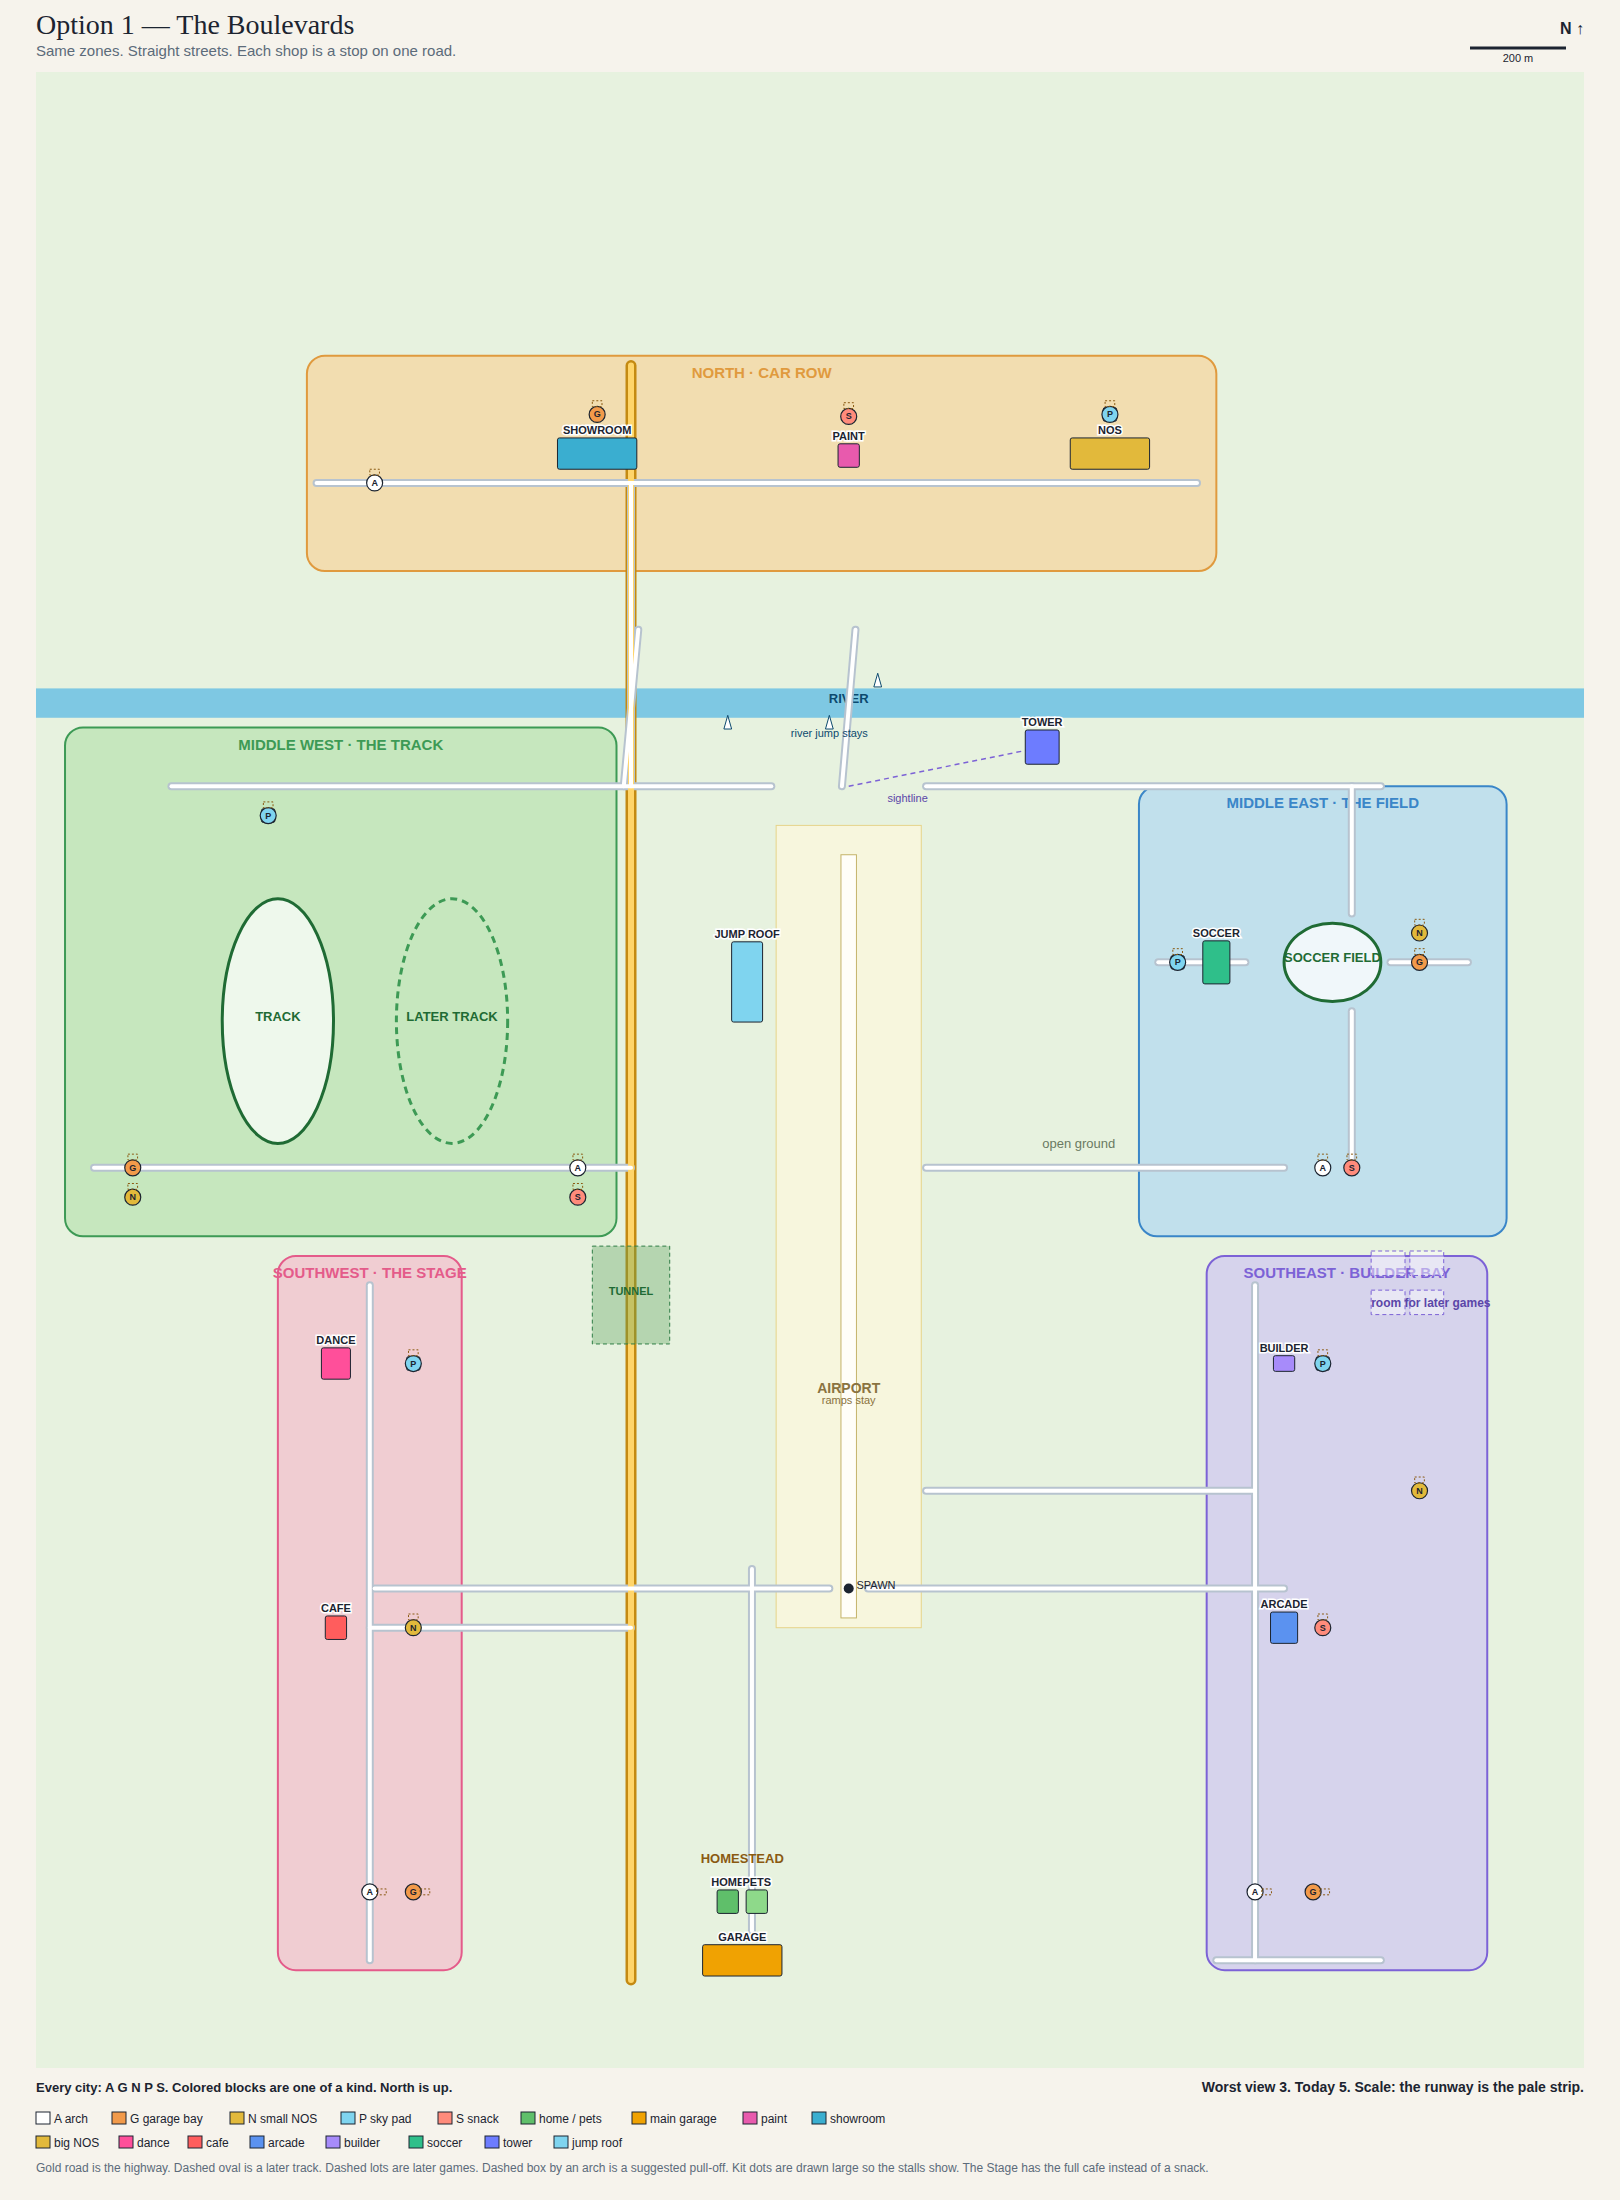
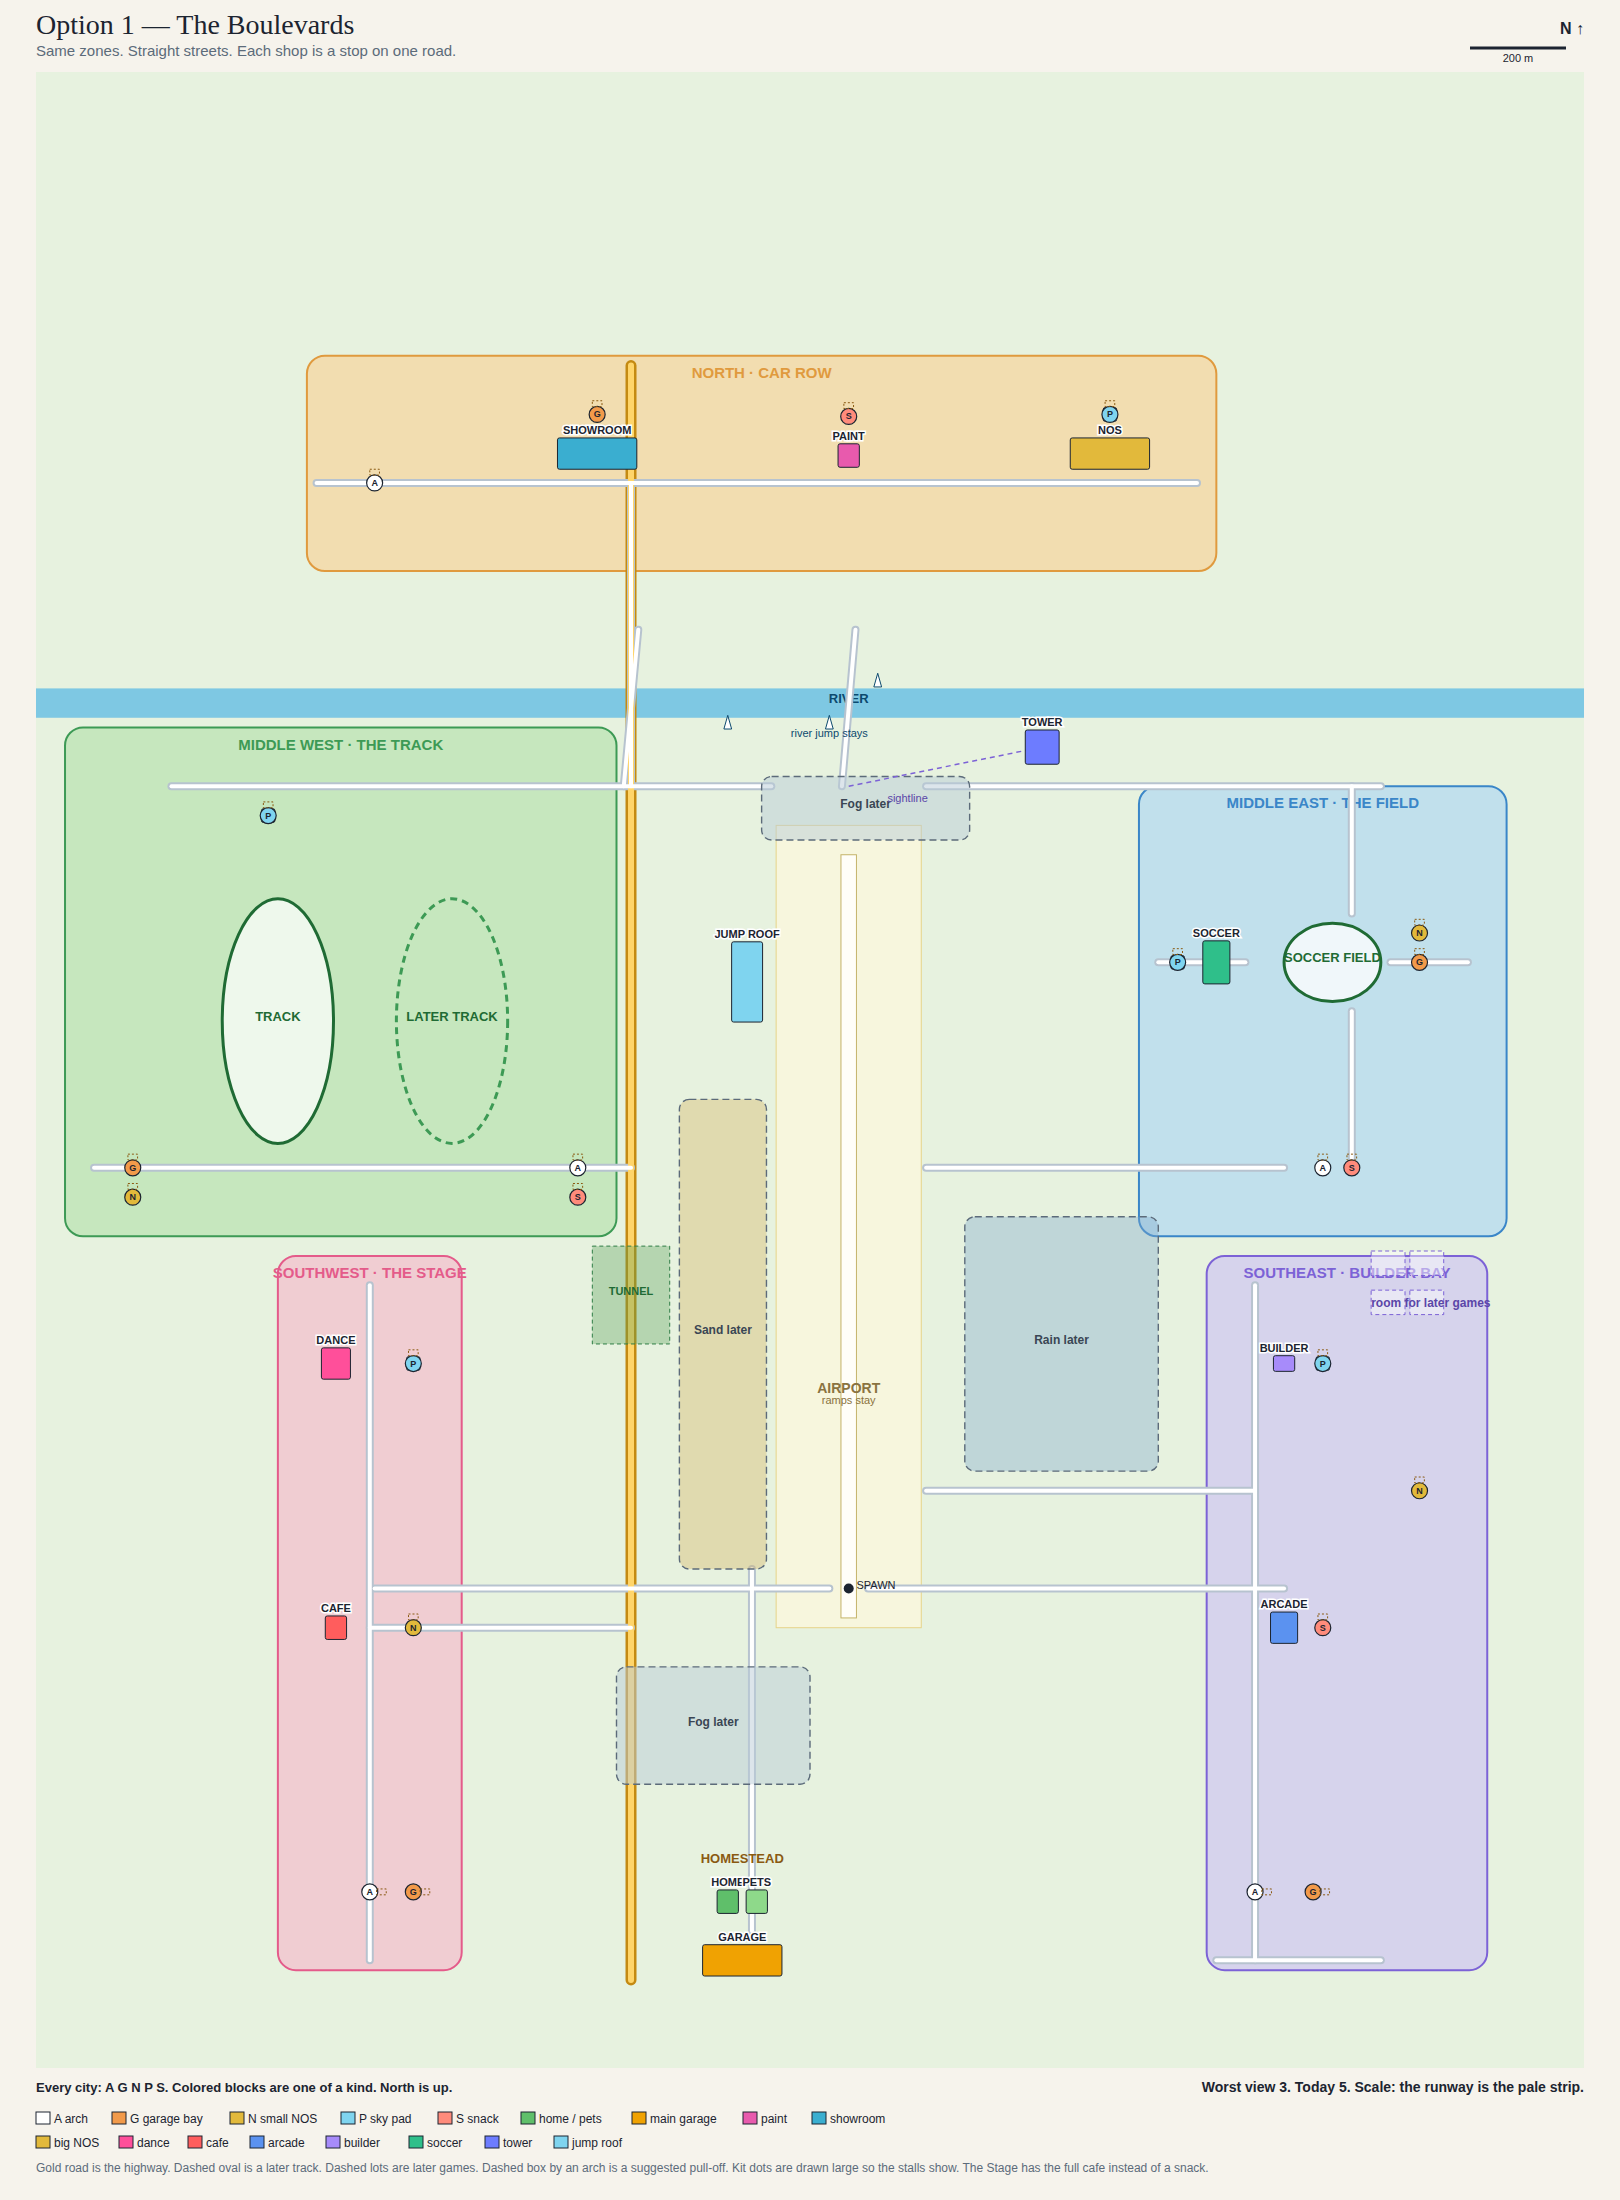
Plan later weather on the open ground between cities.
Sand, fog, and rain sit on the empty stretches, thicken when the frame is low, and shorten the far draw. The car keeps its speed. Both maps mark the bands.

diff --git a/docs/CITY-LAYOUT-PLAN.md b/docs/CITY-LAYOUT-PLAN.md
@@ -59,7 +59,7 @@ Empty grass does not add shops to that count. A bigger map is cheap as long as t
 
 ![Option 1, The Boulevards](city-layout/option-boulevards.png)
 
-Each city is one straight street. The shops are stops along it, far enough apart that the next stop is out of the detail view. You can see the gate at the end of the street. Car Row faces the river. The dance mural faces east onto its street. The two ovals sit side by side, with a pit road along the south. The soccer approach comes up from the south. The jump roof stays on the west side of the runway. The tower sits on the riverbank, just east of the center bridge, and the short dashed line is a view, not a road.
+Each city is one straight street. The shops are stops along it, far enough apart that the next stop is out of the detail view. You can see the gate at the end of the street. Car Row faces the river. The dance mural faces east onto its street. The two ovals sit side by side, with a pit road along the south. The soccer approach comes up from the south. The jump roof stays on the west side of the runway. The tower sits on the riverbank, just east of the center bridge, and the short dashed line is a view, not a road. The hatched bands are weather for later: sand on the west shoulder, fog by the river and on the south lane, rain in the east gap.
 
 Worst view: 3 buildings, the homestead yard. Inside a city the worst is 2.
 
@@ -67,7 +67,7 @@ Worst view: 3 buildings, the homestead yard. Inside a city the worst is 2.
 
 ![Option 2, The Town Squares](city-layout/option-squares.png)
 
-Same zones, same places. Each city is a square. The arch is the middle (Car Row's arch is the south gate, because that gate faces the river). The next shop is around the corner and out of view. The dance building is the west side of its square so the mural still faces east. The two ovals are stacked north–south, which is why this side of the map is tall. The soccer approach comes in from the west, off the airport. The jump roof is on the east shoulder of the runway, just north of where a Sky Drop already starts. The tower is the same riverbank landmark, and the long dashed line is the view from the southwest across the open middle.
+Same zones, same places. Each city is a square. The arch is the middle (Car Row's arch is the south gate, because that gate faces the river). The next shop is around the corner and out of view. The dance building is the west side of its square so the mural still faces east. The two ovals are stacked north–south, which is why this side of the map is tall. The soccer approach comes in from the west, off the airport. The jump roof is on the east shoulder of the runway, just north of where a Sky Drop already starts. The tower is the same riverbank landmark, and the long dashed line is the view from the southwest across the open middle. The hatched bands are the same later weather, with the rain sitting higher so it stays clear of the east jump roof.
 
 Worst view: 3 buildings, the homestead yard. Inside a city the worst is 2.
 
@@ -170,6 +170,38 @@ Boxes are x0..x1 and z0..z1. The full list is also in `docs/city-layout/coords.j
 | Field arch, and its snack | 356..364, 1227..1253 and 414..426, 1175..1185 |
 | Field bay, and its NOS | 1310..1330, 1313..1327 and 1312..1328, 1374..1386 |
 
+## Weather (later)
+
+Not in the first build. No code in this plan. When it is built, weather sits on the open ground between cities. Sand, fog, and rain. The hatched bands on both maps are those stretches. A city, the homestead yard, the runway, the tunnel, and the river jumps stay clear so she can see the shops, the bore, and the jump.
+
+The look and the frame are tied together. In a weather stretch the world can show a light haze any time: a tint and a few streaks, not a cloud of sprites. The thick version turns on when the frame is low. Use a short average, so one bad frame does not throw a storm, and ease it out slowly so it does not flicker. On a Galaxy that is missing 110 fps, the thick weather shortens the far draw. Above that, the draw distances stay as they are and the weather stays light.
+
+What it shortens: building silhouettes and the ground fill, which today reach 950 m, come in to 320 m. The road draw stays at 360 m, so the lane in front of the car is still there. Building detail stays at 170 m. There is nothing to detail in these stretches anyway. The long highway dash marks, which today draw whenever she is within 700 m of the highway, should stop for the part she can no longer see. The weather itself has to stay cheaper than the silhouettes it removes.
+
+The car keeps its speed. Slowing down does not remove anything from the frame. The draw list depends on where she is, not how fast she is moving. If the frame is still short after the distance is already cut, a later pass may trim a few percent, and only while the thick weather is on. Not a crawl. Not in a city, the tunnel, or a jump.
+
+From the middle of each stretch, these are the building silhouettes the game would draw today (inside 950 m, skipping stalls shorter than 12 m once they are past 595 m) and how many are left if that stretch is thick. Every one of these middles drops to zero. The ground disc shrinks from a 950 m radius to 320 m, which is about one ninth of that area.
+
+### Option 1
+
+| Stretch | Where | Silhouettes now | Left when thick |
+|---|---|---|---|
+| Sand | West shoulder, between the highway and the runway, z 40 to 1000 | 4 | 0 |
+| Fog | North of the runway, south of the river jumps, x −180 to 250 | 7 | 0 |
+| Rain | East gap, between Builder Bay and The Field, z 240 to 760 | 6 | 0 |
+| Fog | South lane, between spawn and the homestead, stopping before the yard | 5 | 0 |
+
+### Option 2
+
+| Stretch | Where | Silhouettes now | Left when thick |
+|---|---|---|---|
+| Sand | West shoulder, z 160 to 900 | 5 | 0 |
+| Fog | Same riverbank band as Option 1 | 10 | 0 |
+| Rain | East gap, x 500 to 820, z 780 to 1020, clear of the jump roof | 9 | 0 |
+| Fog | Same south lane as Option 1 | 7 | 0 |
+
+This does not change the worst view of 3. That number is the close-up count, and these stretches already have no building inside 170 m. Weather cuts the far outlines and most of the ground while she is crossing, which is the cost the empty ground still pays today.
+
 ## Ideas for Bob
 
 These are not in either option.
@@ -204,4 +236,5 @@ Bob's later zoning replaces the older "keep both builder HQs and the tower where
 | Plazas | The old plaza rectangles are not reused. The cities are outside those lots. Do not spawn the old plaza ramps inside a new shop. Leave the airport and river ramps where they are. |
 | Building interiors | Not this plan. Footprints on the map do not grow to make rooms larger. |
 | FPS files | Not touched. The worst view above is a distance count at 170 m, not a new benchmark. |
+| Weather | Later. Marked on the maps and written up above. Not in this build, and not a draw-code change now. |
 | Adult `index.html` | Not touched. |
